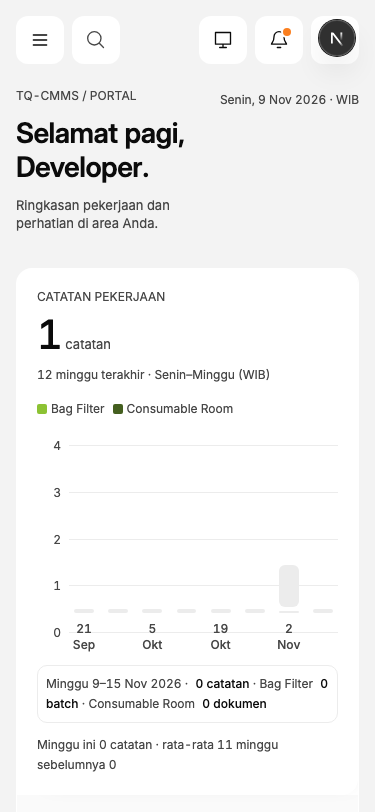
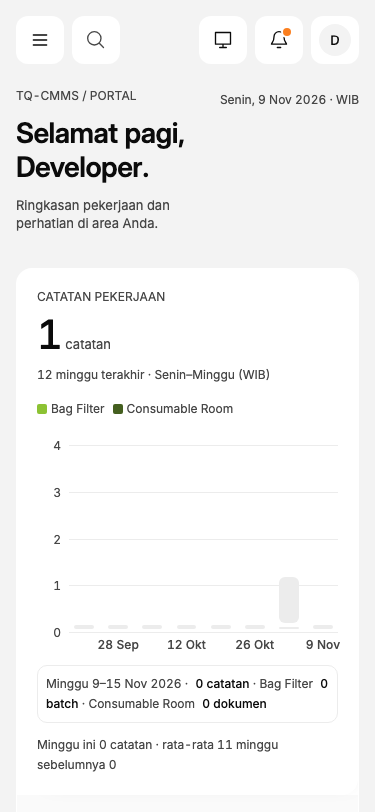
fix(portal): resolve chart date label wrapping and anchoring on mobile and tablet

Changed region(s): [[0.2053, 0.7697, 0.9093, 0.8005], [0.8507, 0.0, 0.968, 0.0924]]

diff --git a/packages/ui/src/dashboard.css b/packages/ui/src/dashboard.css
@@ -1223,13 +1223,21 @@
     border-radius: var(--radius-input);
   }
 
-  @media (max-width: 1023px) {
-    .hero-chart-card .bar-slots > .bar-slot:nth-child(even) > small {
+  .portal-hub .hero-chart-card .bar-slots,
+  .portal-hub .hero-chart-card .bar-slot {
+    overflow: visible;
+  }
+  .portal-hub .hero-chart-card .bar-slot small {
+    white-space: nowrap;
+  }
+
+  @media (max-width: 1365px) {
+    .portal-hub .hero-chart-card .bar-slots > .bar-slot:nth-last-child(even) > small {
       visibility: hidden;
     }
   }
   @media (max-width: 767px) {
-    .hero-chart-card .bar-slots > .bar-slot:nth-child(-n + 4) {
+    .portal-hub .hero-chart-card .bar-slots > .bar-slot:nth-child(-n + 4) {
       display: none;
     }
     .portal-app-card {

diff --git a/docs/testing/portal-v3/REPORT.md b/docs/testing/portal-v3/REPORT.md
@@ -154,3 +154,7 @@ Implementasi dibagi menjadi 3 commit terstruktur sesuai panduan:
 2. **Budget Warna Lime**: Satu-satunya permukaan lime di Portal adalah widget Aksi Cepat. Slot aktif chart dan progress bar kartu memakai aksen lime bergaris (hatch).
 3. **Distribusi Umur Bag**: Distribusi umur 7 kelompok tidak ditampilkan di Portal (sudah diwakili oleh grup perhatian "Bag ≥ 1.260 hari") guna menjaga ketenangan dan fokus visual.
 4. **Penyelarasan Header KPI Rail**: Header `.kpi-rail .section-head h2` distilasi dengan `display: inline-flex; align-items: center; gap: var(--space-2)` dan ikon info 16×16 px berwajah `var(--textSecondary)` untuk memastikan simetri sumbu vertikal (selisih pusat 0 px) dan jarak horizontal 8 px terhadap teks "Perlu perhatian".
+5. **Penyelarasan Label Tanggal Chart pada Mobile & Tablet**:
+   - Menambahkan `white-space: nowrap` dan `overflow: visible` pada `.portal-hub .hero-chart-card .bar-slot small` sehingga label tanggal tidak pecah menjadi 2 baris (misal `21\nSep`) yang sebelumnya menyebabkan garis dasar (baseline) bergerigi dan menabrak garis grid `0`.
+   - Mengubah selector penyembunyian selang-seling dari `:nth-child(even)` menjadi `:nth-last-child(even)` agar dijangkarkan dari minggu berjalan (Slot 12 aktif selalu memiliki label tanggal `9 Nov`).
+   - Melakukan scoping ketat seluruh aturan bar-slots Portal ke `.portal-hub .hero-chart-card` agar 4 kuartal Bag Filter (`/bag-filter`) tetap utuh 100% di semua breakpoint.
